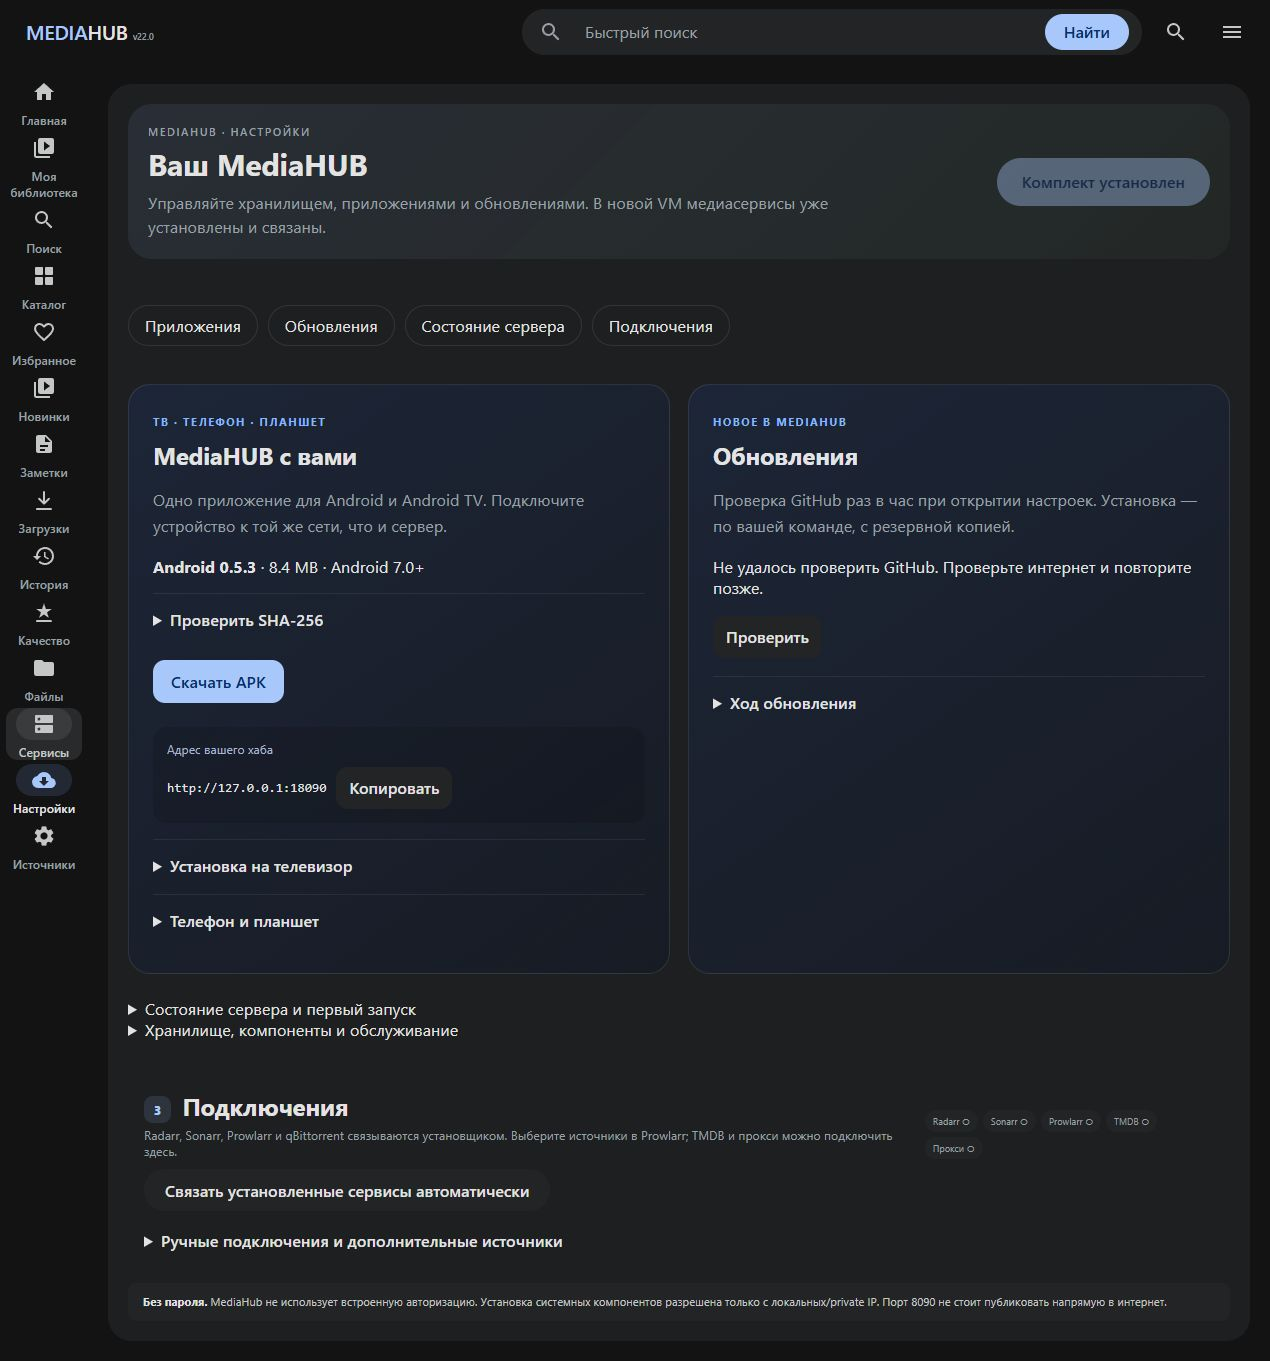
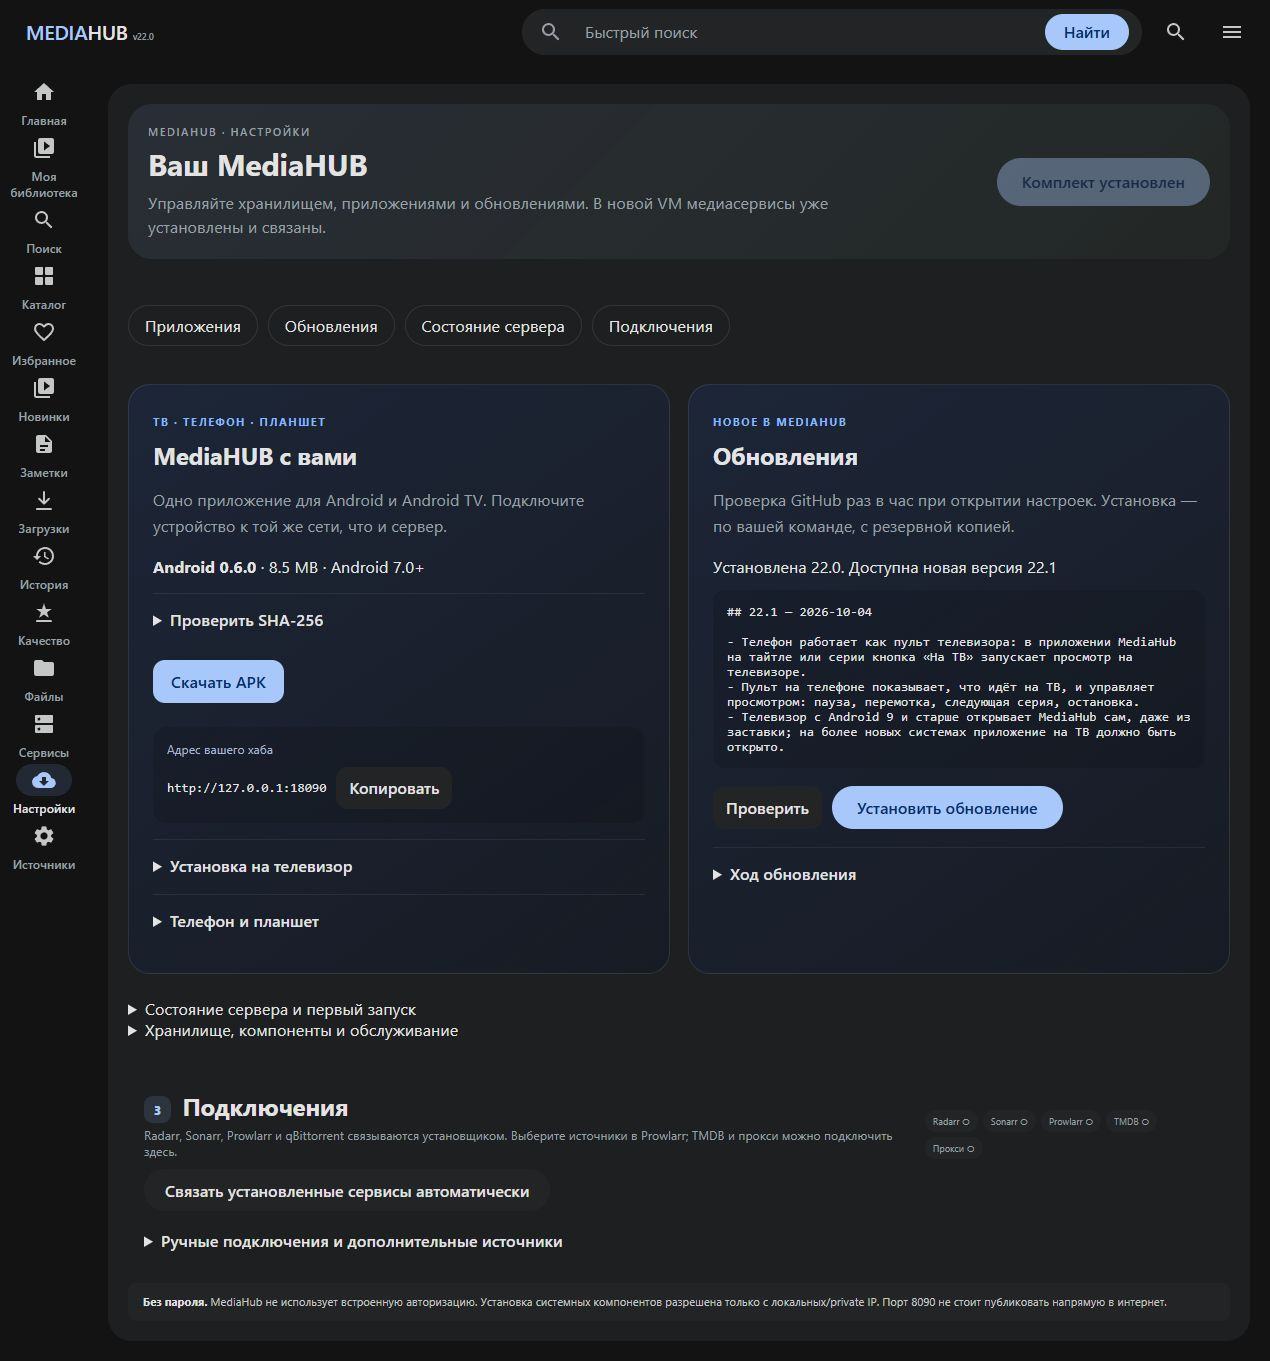
docs: verify published updates and add current settings preview

Changed region(s): [[0.5528, 0.4012, 0.9213, 0.6481], [0.0, 0.4938, 0.0614, 0.5555]]

diff --git a/docs/RELEASE_PLAN_RU.md b/docs/RELEASE_PLAN_RU.md
@@ -12,6 +12,7 @@
 
 ## Проверка
 
+- Успешно прошли 47 unittest и GitHub Actions на Linux/Windows (run 37155914678), включая ShellCheck.
 - Существующие проверки плеера, импорта страниц, картинок и релизов.
 - Новые проверки версии, привязки новостей к коммиту, кэша, отсутствия интернета, доступа из LAN и отказа поддельному коммиту, выдачи/отсутствия APK.
 - Компиляция четырёх backend-файлов, синтаксис встроенного JS, Bash и PowerShell.
@@ -25,3 +26,5 @@
 Обновление действующего сервера, реальный сбой для проверки автоматического отката и удаление Jellyfin не выполнялись. Команды подготовлены для запуска владельцем. Показанные новые настройки проверяются в изолированном локальном предпросмотре; снимки библиотек 21.x относятся к существующему интерфейсу.
 
 Личные ключи TMDB, закрытые трекеры, нестандартные сети Proxmox и аппаратное ускорение пользователь настраивает сам. Такие настройки нельзя безопасно заменить универсальными значениями.
+
+Публичная версия перед выпуском обновлена до 22.1 параллельной задачей Android. APK 0.6.0 и сведения о пульте ТВ сохранены. Проверка обновлений после публикации получила настоящий commit GitHub и новости версии; отдельная установка на Proxmox всё ещё не выполнялась.

diff --git a/docs/AGENT_JOURNAL.md b/docs/AGENT_JOURNAL.md
@@ -11,3 +11,5 @@
 Подробный план и пределы проверки — RELEASE_PLAN_RU.md. При дальнейшей работе не выдавать статические и mock-проверки за успешное создание VM или испытание отката на реальном сервере.
 
 Перед публикацией сохранено параллельное обновление Android 0.6.0, android.json, VERSION.txt=22.1 и новости удалённого управления ТВ. Код remote API и его тесты уже присутствовали в снимке исходников; эти изменения не заменялись. Публичный пакет содержит новый APK, проверенный по SHA-256.
+
+Публикация: коммит 9ee6f54 в main репозитория viendhyra/MediaHUB. GitHub Actions 37155914678 завершился успешно: Linux (Python/JS/APK/47 тестов/Bash/ShellCheck) и Windows (PowerShell). Портал в локальном предпросмотре действительно получил версию 22.1, commit и новости от опубликованного GitHub, показал предложение обновления. На 390 px scrollWidth=380 при innerWidth=390, ошибок JS нет. Скачивание APK подтверждено HTTP 200.
